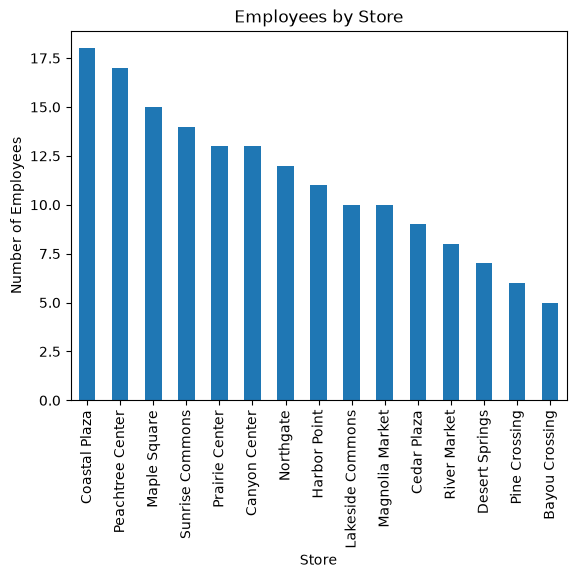
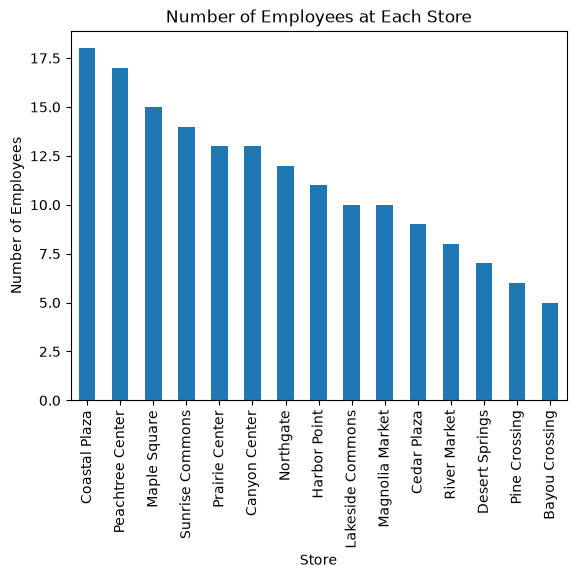
Update chart title and document modification

Changed region(s): [[0.2812, 0.0, 0.8125, 0.0623]]

diff --git a/src/datafun/app.py b/src/datafun/app.py
@@ -273,7 +273,7 @@ def main() -> None:
     )
 
     # CUSTOM: The analyst can customize the returned Matplotlib Axes object.
-    employee_ax.set_title("Employees by Store")
+    employee_ax.set_title("Number of Employees at Each Store")
     employee_ax.set_xlabel("Store")
     employee_ax.set_ylabel("Number of Employees")
 

diff --git a/README.md b/README.md
@@ -236,3 +236,11 @@ Press `Ctrl c` (both keys together) or `Ctrl+Z` then `Enter` on Windows.
 ## License
 
 This project is licensed under the [MIT License](./LICENSE).
+
+## Technical Modification
+
+I changed the bar chart title from "Employees by Store" to "Number of Employees at Each Store."
+
+I made this change to make the chart title more descriptive and easier to understand.
+
+After running the project, I observed that the chart displayed the updated title correctly.
